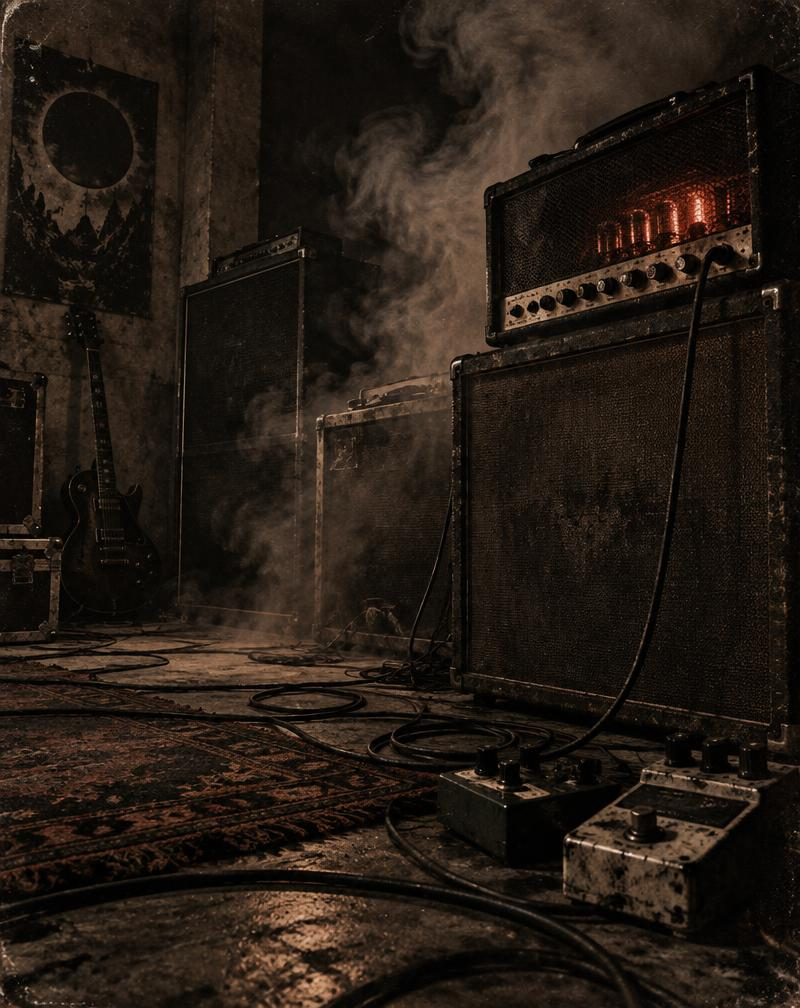
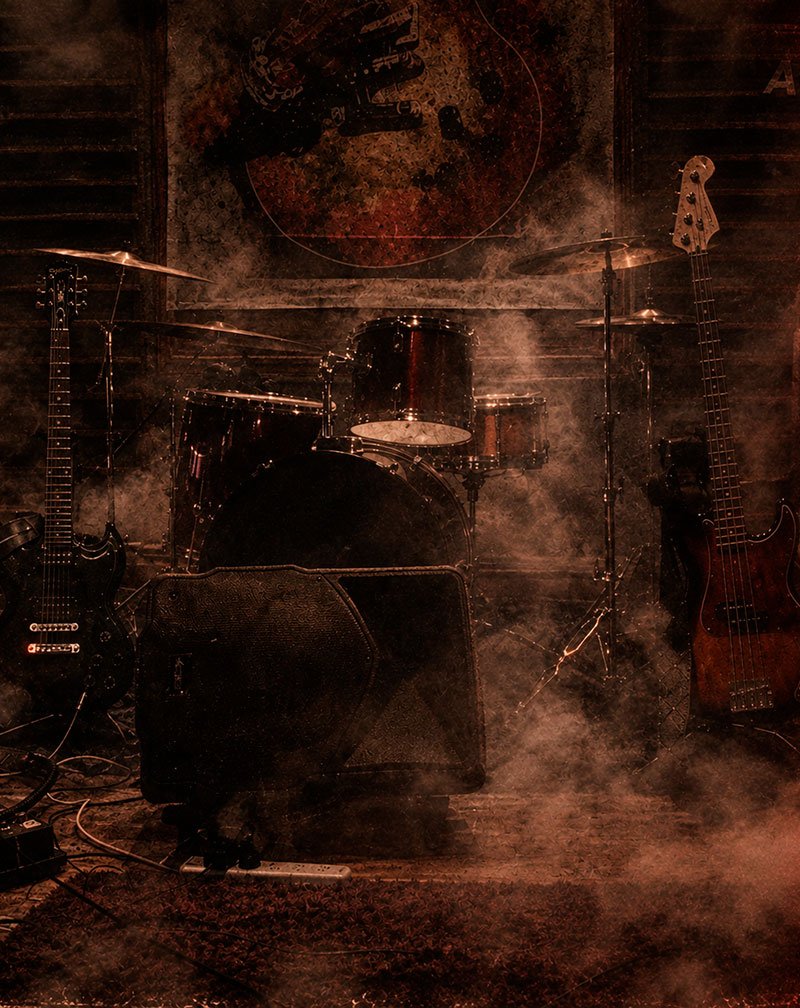
feature: history

diff --git a/src/components/page/heroBanner.tsx b/src/components/page/heroBanner.tsx
@@ -13,9 +13,9 @@ export default function HeroBanner() {
       <div className="relative z-10 mx-auto w-full max-w-7xl px-5 pb-16 pt-32 md:px-8 md:pb-20">
         <p className="section-kicker mb-10">Argentina · Mendoza· Stoner / Doom / Desert Rock</p>
         <h1 className="max-w-5xl font-display text-5xl font-black uppercase leading-[0.88] sm:text-8xl lg:text-[9rem]">
-          Aún de
+          Ecos del
           <br />
-          <span className="text-primary">pie</span>
+          <span className="text-primary">caos</span>
         </h1>
         <p className="mt-7 max-w-md text-base font-light leading-relaxed text-muted-foreground md:text-lg">
           Poesia densa. Distorsión infinita. Cuatro partes de un mismo sonido.

diff --git a/src/components/page/history.tsx b/src/components/page/history.tsx
@@ -8,9 +8,9 @@ export default function History() {
       <div className="max-w-xl md:pt-10">
         <p className="section-kicker">01 — Historia</p>
         <h2 className="section-title mt-6">
-          El eco
+          Aun de
           <br />
-          del caos
+          pie
         </h2>
         <div className="mt-10 space-y-6 text-base leading-8 text-muted-foreground">
           <p>
